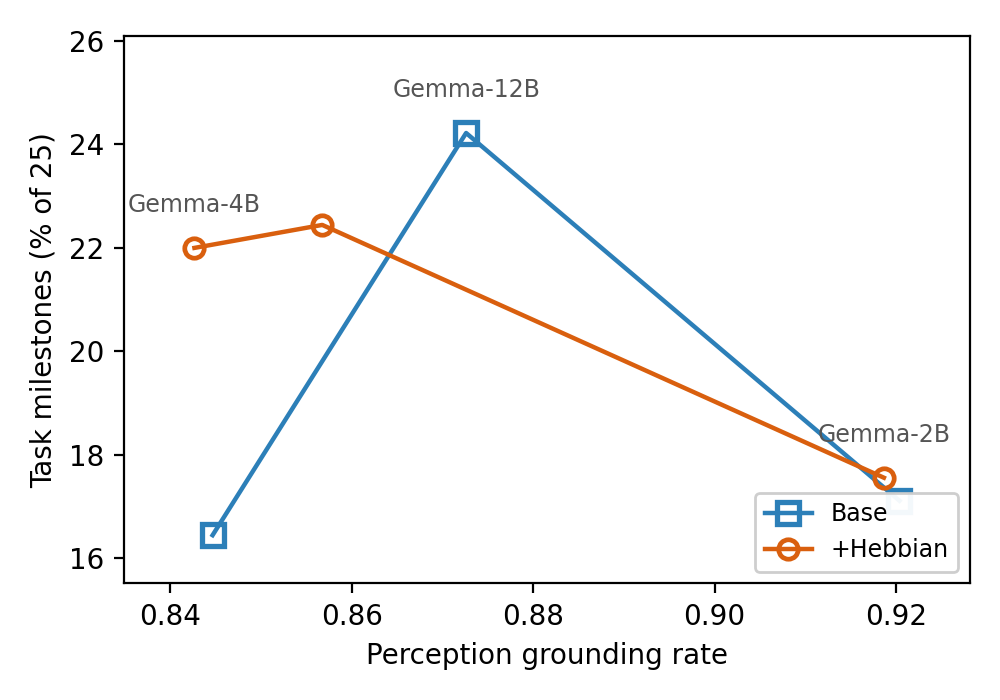
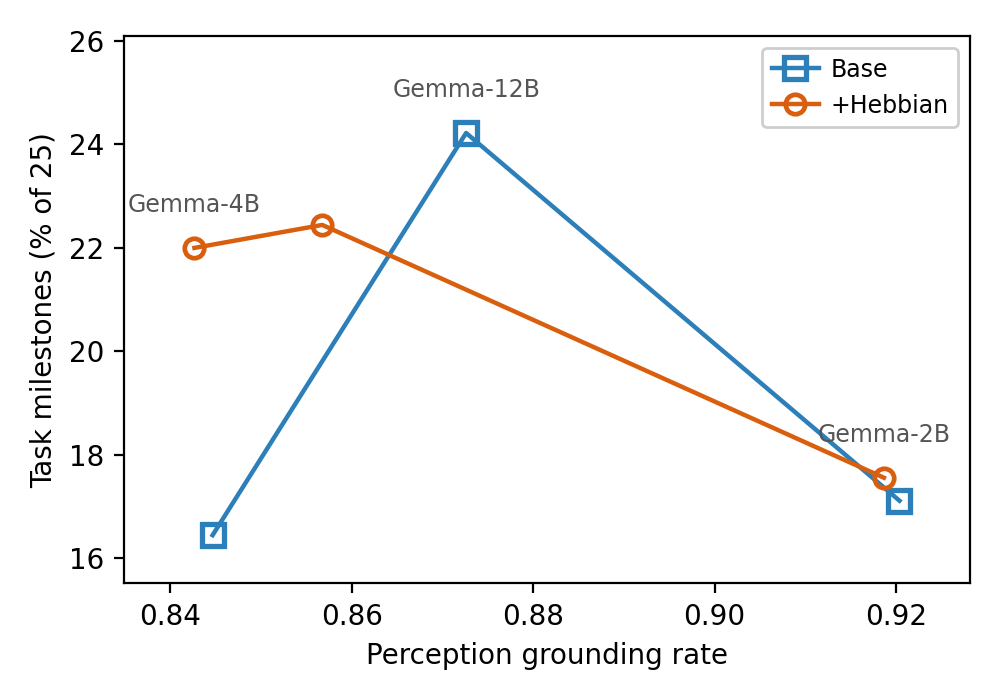
Pareto figures: multi-family legends move below the axes
Four-entry legends have no guaranteed free spot inside these panels:
lower-right clipped the rising frontiers, two columns clipped the 2B
cluster, and matplotlib's 'best' avoids data but not the size annotations
(it parked on the Qwen-9B label). >2 series now get a one-row legend below
the axes (bbox_inches='tight' keeps it on canvas); single-family panels
keep the framed inside legend of the house style.

Changed region(s): [[0.744, 0.06, 0.961, 0.21], [0.744, 0.69, 0.961, 0.84]]

diff --git a/scripts/make_pareto_grid.py b/scripts/make_pareto_grid.py
@@ -280,7 +280,7 @@ def series_points(data, family, arm, y, x, perception):
 
 
 def draw_panel(ax, data, families, y, x, perception, label_points=True,
-               errorbars=False, normalize=False, legend_loc="lower right",
+               errorbars=False, normalize=False, legend_loc="best",
                join_families=False):
     """One panel in the CoDe Fig. 10 look. Returns the number of series drawn.
 
@@ -372,13 +372,23 @@ def draw_panel(ax, data, families, y, x, perception, label_points=True,
         ax.set_ylim(lo - pad, hi + 2.0 * pad)
     ax.margins(x=0.10)
     if n:
-        ax.legend(loc=legend_loc, fontsize=8.5, framealpha=0.95)
+        if n > 2:
+            # Four series never have a guaranteed-free spot inside the axes
+            # (matplotlib's "best" avoids data but not the size annotations),
+            # so multi-family panels put the legend BELOW the axes, one row.
+            ax.legend(loc="upper center", bbox_to_anchor=(0.5, -0.17),
+                      ncol=min(n, 4), fontsize=8.5, framealpha=0.95,
+                      columnspacing=1.0, handletextpad=0.5)
+        else:
+            ax.legend(loc=legend_loc, fontsize=8.5, framealpha=0.95)
     return n
 
 
 def save(fig, path_stem: Path):
     path_stem.parent.mkdir(parents=True, exist_ok=True)
-    fig.savefig(str(path_stem) + ".png", dpi=200, facecolor="white")
+    # bbox_inches="tight" keeps a below-axes legend inside the canvas.
+    fig.savefig(str(path_stem) + ".png", dpi=200, facecolor="white",
+                bbox_inches="tight")
 
 
 def main():
@@ -406,6 +416,9 @@ def main():
                          "e2b,e4b,12b,qwen9b to add one Qwen point to the "
                          "Gemma curve".format(",".join(SIZES)))
     ap.add_argument("--no-point-labels", action="store_true")
+    ap.add_argument("--legend-loc", default="best",
+                    help="matplotlib legend loc (e.g. 'upper left', 'best') "
+                         "for panels where lower-right collides with data")
     ap.add_argument("--join-families", action="store_true",
                     help="one line per arm through all families' points, "
                          "sorted by x — perception axes only (refused on the "
@@ -513,7 +526,8 @@ def main():
                                label_points=not args.no_point_labels,
                                errorbars=args.errorbars,
                                normalize=args.normalize,
-                               join_families=args.join_families)
+                               join_families=args.join_families,
+                               legend_loc=args.legend_loc)
                 if n == 0:
                     plt.close(fig)
                     continue
@@ -534,10 +548,12 @@ def main():
                                   label_points=not args.no_point_labels,
                                   errorbars=args.errorbars,
                                   normalize=args.normalize,
-                                  join_families=args.join_families):
+                                  join_families=args.join_families,
+                               legend_loc=args.legend_loc):
                         any_drawn = True
             if any_drawn:
-                fig.tight_layout()
+                # Extra row gap so below-axes legends clear the next row.
+                fig.tight_layout(h_pad=3.5)
                 save(fig, args.out_dir / "pareto_{}_grid".format(fam))
                 n_written += 1
             plt.close(fig)

diff --git a/.claude/skills/pareto-plots/SKILL.md b/.claude/skills/pareto-plots/SKILL.md
@@ -135,6 +135,12 @@ frontier), so every compute figure in the paper reads as one family:
   base arm's cheapest point.
 - Each size direct-labelled once (E2B/E4B/12B) in `#555555`, fontsize 8.5,
   11 pt above the higher arm — the same treatment as the frontier's Δ labels.
+- Legends: 2-entry (single-family) panels keep the framed inside legend
+  (`--legend-loc`, default best). >2 entries go BELOW the axes in one row
+  — inside placement has no guaranteed free spot (matplotlib's 'best'
+  avoids data but NOT the size annotations; lower-right clipped rising
+  frontiers). save() uses bbox_inches='tight' so the below-axes legend
+  stays on the canvas.
 - After generating, OPEN the PNGs: nothing checks label collisions but you.
 
 ## The paper figures
